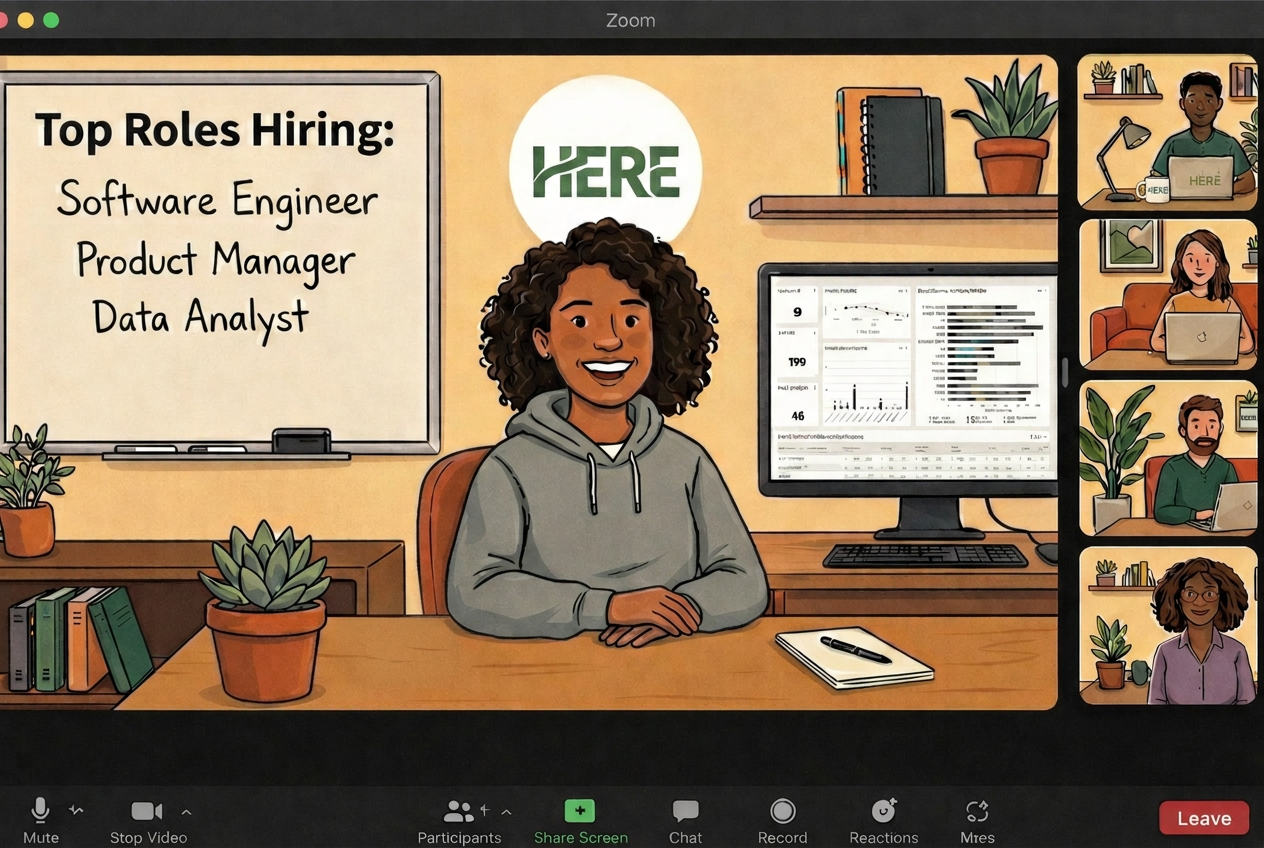
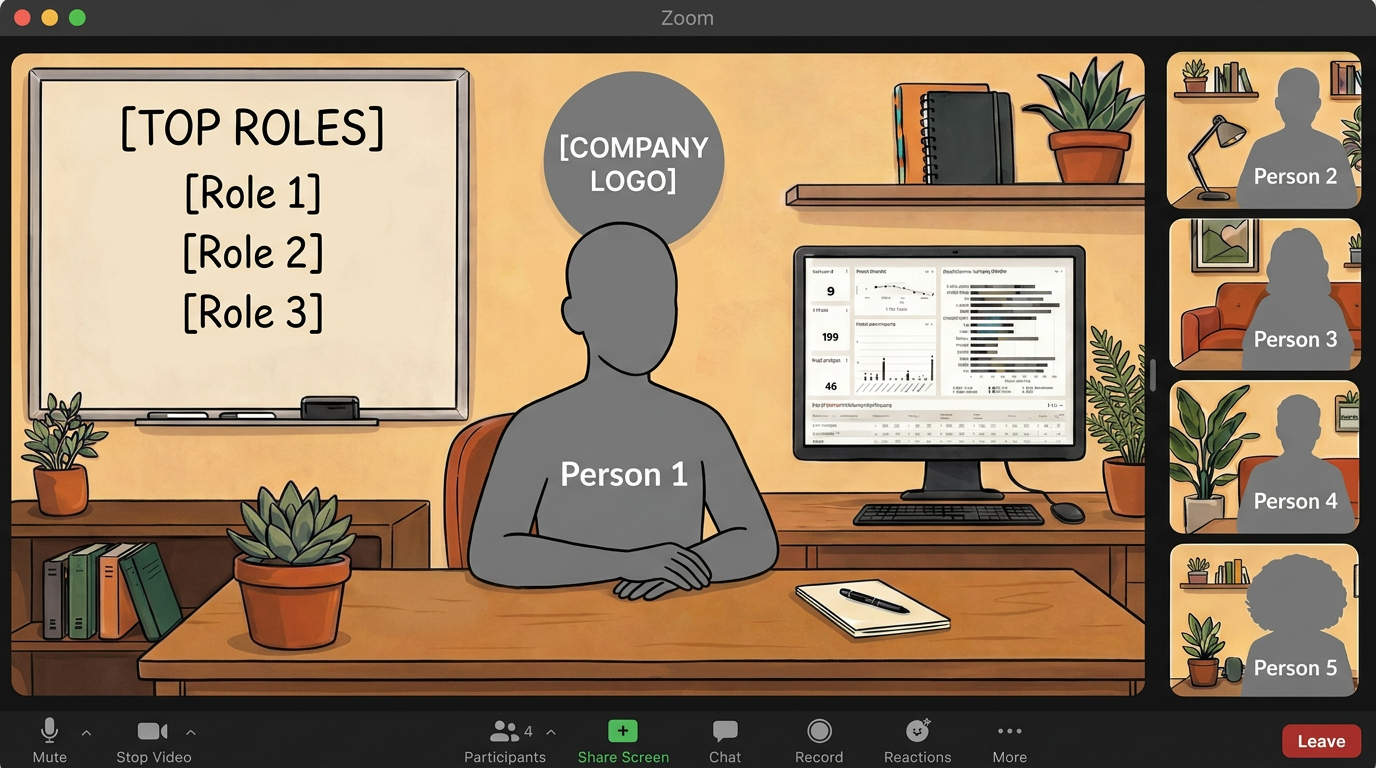
Add labeled Zoom Room reference template and rewrite Zoom Room prompts
Generated new zoom-room-reference.png with labeled placeholder slots
(Person 1-5, [COMPANY LOGO], [TOP ROLES]) matching the War Room pattern.
Old template preserved as zoom-room-reference-old.png.

Rewrote buildZoomRoomGenerationPrompt and buildZoomRoomAnalysisPrompt to
use slot-based instructions referencing the labeled template — explicit
removal of silhouettes without photos, same pattern as War Room prompts.

diff --git a/src/lib/postcard/nano-banana-generator.ts b/src/lib/postcard/nano-banana-generator.ts
@@ -500,79 +500,103 @@ function buildWarRoomAnalysisPrompt(data: PreparedData): string {
 // ─── Zoom Room Prompts ──────────────────────────────────────────────────────
 
 function buildZoomRoomGenerationPrompt(data: PreparedData, previousIssues?: string[]): string {
-  const imageLabels: string[] = ['Image 1 = reference Zoom scene (reproduce EXACTLY)'];
+  // Build image label list — maps each provided image to its labeled slot in the reference
+  const imageLabels: string[] = ['Image 1 = reference template (follow this layout EXACTLY — it has labeled placeholder slots)'];
   let imgIdx = 2;
-  if (data.logoImage) { imageLabels.push(`Image ${imgIdx} = company logo`); imgIdx++; }
-  if (data.prospectImage) { imageLabels.push(`Image ${imgIdx} = prospect face photo`); imgIdx++; }
-  for (let i = 0; i < data.teamImages.length; i++) { imageLabels.push(`Image ${imgIdx} = team member ${i + 1}`); imgIdx++; }
-  if (data.screen) imageLabels.push(`Image ${imgIdx} = dashboard for monitor screen`);
+  if (data.logoImage) { imageLabels.push(`Image ${imgIdx} = company logo → replaces [COMPANY LOGO] slot`); imgIdx++; }
+  if (data.prospectImage) { imageLabels.push(`Image ${imgIdx} = prospect face photo → replaces "Person 1" (center desk person)`); imgIdx++; }
+  for (let i = 0; i < data.teamImages.length; i++) {
+    imageLabels.push(`Image ${imgIdx} = team member ${i + 1} face photo → replaces "Person ${i + 2}" (video tile)`);
+    imgIdx++;
+  }
+  if (data.screen) imageLabels.push(`Image ${imgIdx} = dashboard screenshot → replaces monitor screen content`);
 
   const corrections = previousIssues?.length
-    ? '\nCRITICAL FIXES FROM PREVIOUS ATTEMPT:\n' + previousIssues.map((issue, i) => `  ${i + 1}. ${issue}`).join('\n') + '\n'
+    ? [
+        '',
+        'CRITICAL CORRECTIONS FROM PREVIOUS ATTEMPT (you MUST fix these):',
+        ...previousIssues.map((issue, i) => `  ${i + 1}. ${issue}`),
+        '',
+      ].join('\n')
     : '';
 
+  // Build people instructions — only slots with a provided photo get filled, all others are removed
+  const personSlots: string[] = [];
+  const removedSlots: string[] = [];
+
+  if (data.prospectImage) {
+    personSlots.push(
+      `   - "Person 1" (center desk person): Use the prospect face photo.`,
+      `     Preserve their facial features (hair, skin tone, facial structure, glasses, facial hair).`,
+      `     Match gender — adapt body build, clothing to the prospect's apparent gender.`,
+      `     Render in illustration style, not photorealistic. Keep the seated-at-desk pose.`,
+    );
+  } else {
+    removedSlots.push('"Person 1"');
+  }
+
+  for (let i = 0; i < 4; i++) {
+    if (i < data.teamImages.length) {
+      personSlots.push(
+        `   - "Person ${i + 2}" (video tile): Use team member ${i + 1} face photo.`,
+        `     Preserve their facial features, render in illustration style.`,
+      );
+    } else {
+      removedSlots.push(`"Person ${i + 2}"`);
+    }
+  }
+
   return [
-    `Recreate the reference Zoom call scene (Image 1) with specific modifications. Output a single image.`,
+    `The reference template (Image 1) shows a Zoom call scene with labeled placeholder slots.`,
+    `Reproduce this scene EXACTLY, filling in the labeled slots with the provided images. Output a single wide landscape image.`,
     ``,
     `IMAGE LABELS:`,
     ...imageLabels.map((l) => `  ${l}`),
     ``,
-    `STYLE: Warm-toned flat-color corporate illustration with clean outlines — Pixar-inspired 2D style. Every element must match this style consistently.`,
+    `STYLE: Warm-toned flat-color corporate illustration — clean outlines, vibrant colors, Pixar-inspired 2D. Every element including all people must match this style consistently. No photorealistic faces.`,
     ``,
-    `PRESERVE EXACTLY (do NOT change these):`,
-    `- Wide landscape format (3:2 ratio) — the output MUST be landscape, not square or portrait`,
-    `- Zoom UI layout: toolbar at bottom, "Leave" button, participant tiles on right — keep untouched`,
-    `- Warm orange/brown color scheme — keep untouched`,
-    `- Desk setup with monitor, plants, decor — keep untouched`,
+    `The reference template already defines the Zoom UI layout, desk, monitor, plants, toolbar, "Leave" button, etc. Keep ALL of that exactly as shown. Only fill in the labeled placeholder slots:`,
     ``,
-    `MODIFICATIONS (change ONLY these, nothing else):`,
-    ``,
-    `1. LEFT WHITEBOARD PANEL:`,
-    `   Restyle only the text; keep the panel itself untouched.`,
-    `   Header: "Top Roles Hiring:" with these roles:`,
+    `1. [TOP ROLES] whiteboard panel:`,
+    `   Replace the placeholder text with:`,
+    `   - Header: "Top Roles Hiring:" in bold`,
+    `   - Roles listed below in clean handwritten style:`,
     data.rolesText,
-    `   Write ONLY the roles listed above. Do NOT add filler text like "no additional roles found" or "more roles coming soon." If fewer than 3 roles are listed, leave the remaining panel space blank.`,
-    `   Text must be fully legible, within panel bounds, not overflowing.`,
+    `   - Write ONLY these roles. No filler text. If fewer than 3, leave remaining space blank.`,
+    `   - Text must be legible and within the panel bounds.`,
     ``,
     data.logoImage
       ? [
-          `2. LOGO: Replace ONLY the top-center "HERE" circle with the company logo provided.`,
-          `   Restyle only this one circle; keep everything else untouched.`,
+          `2. [COMPANY LOGO] circle:`,
+          `   Replace with the provided company logo. Same position, same size.`,
           `   The logo must appear EXACTLY ONCE in the entire image.`,
         ].join('\n')
-      : `2. LOGO: Keep the "HERE" circle as-is — do not change it.`,
+      : `2. [COMPANY LOGO]: No logo provided — draw a generic decorative circle.`,
     ``,
-    `3. MONITOR: Replace desk monitor content with the dashboard screenshot provided.`,
-    `   Restyle only the screen content; keep the monitor frame untouched.`,
+    `3. MONITOR SCREEN: Replace monitor content with the provided dashboard screenshot.`,
     ``,
-    data.prospectImage
+    personSlots.length > 0
       ? [
-          `4. CENTER PERSON: Preserve the face from the prospect photo.`,
-          `   Maintain their facial features (hair, skin tone, facial structure, glasses if any)`,
-          `   but render in the same flat-color illustration style as the rest of the scene.`,
-          `   Match skin tone on face, neck, hands.`,
-          `   Adapt the person's body build, clothing, and footwear to match the prospect's apparent gender from their photo.`,
-          `   If the prospect appears male, give the person a masculine build, male clothing, and flat shoes (no heels).`,
-          `   If the prospect appears female, give the person a feminine build, female clothing, and appropriate footwear.`,
-          `   Keep their seated-at-desk pose untouched.`,
-        ].join('\n')
-      : `4. CENTER PERSON: Keep as-is — do not change their appearance.`,
-    ``,
-    data.teamImages.length > 0
-      ? [
-          `5. VIDEO TILES: Preserve the faces from ${data.teamImages.length} team member photo(s).`,
-          `   Maintain each person's facial features but render in the same illustration style.`,
-          `   Unmodified tiles MUST stay exactly as-is — preserve their original diverse appearances.`,
-        ].join('\n')
-      : `5. VIDEO TILES: Keep all as-is — do not change any participant.`,
+          `4. PEOPLE — The reference has labeled silhouettes (Person 1 = center desk, Person 2–5 = video tiles). Fill in ONLY the ones with provided photos:`,
+          ...personSlots,
+          removedSlots.length > 0
+            ? `   - REMOVE these (no photo provided): ${removedSlots.join(', ')}. Delete them from the scene entirely — leave the video tile empty/blank or remove the center person, do NOT draw any character there.`
+            : '',
+          `   - ALL people rendered in the same illustration style. Use photos ONLY for facial features.`,
+        ].filter(Boolean).join('\n')
+      : [
+          `4. PEOPLE — The reference has labeled silhouettes.`,
+          `   REMOVE ALL of them (${removedSlots.join(', ')}) — no photos were provided.`,
+          `   Leave video tiles empty/blank and remove center person. No people in the final image.`,
+        ].join('\n'),
     corrections,
     ``,
     `FINAL CHECKS:`,
     `- Logo appears EXACTLY ONCE`,
-    `- Unchanged people preserve their original diversity and appearance`,
-    `- Consistent illustration style everywhere — clean lines, vibrant colors, no photorealistic elements`,
     `- All text legible and within bounds`,
-    `- Wide landscape output (3:2 ratio), not square or portrait`,
+    `- Wide landscape output (3:2), not square or portrait`,
+    `- No gray silhouettes remain — only people with provided photos appear, rest are removed`,
+    `- Consistent illustration style — no photorealistic elements`,
     data.customPrompt ? `\nADDITIONAL USER INSTRUCTIONS (follow these carefully):\n${data.customPrompt}` : '',
   ].filter(Boolean).join('\n');
 }
@@ -581,66 +605,65 @@ function buildZoomRoomAnalysisPrompt(data: PreparedData): string {
   const expectedRoles = data.rolesText.replace(/  \u2022 /g, '').split('\n').join(', ');
 
   const labels: string[] = [
-    'Image 1 = original Zoom reference template (the LAYOUT to preserve)',
-    'Image 2 = generated output (being reviewed)',
+    'Image 1 = reference template (has labeled placeholder slots — the LAYOUT to preserve)',
+    'Image 2 = generated output (the image being reviewed)',
   ];
   let idx = 3;
-  if (data.logoImage) { labels.push(`Image ${idx} = company logo (should replace top-center "HERE" circle)`); idx++; }
-  if (data.prospectImage) { labels.push(`Image ${idx} = prospect face photo (center person should look like THIS)`); idx++; }
-  for (let i = 0; i < data.teamImages.length; i++) { labels.push(`Image ${idx} = team member ${i + 1} face photo`); idx++; }
+  if (data.logoImage) { labels.push(`Image ${idx} = company logo (should replace [COMPANY LOGO] slot, appear ONCE)`); idx++; }
+  if (data.prospectImage) { labels.push(`Image ${idx} = prospect face photo (should replace "Person 1" — the center desk person)`); idx++; }
+  for (let i = 0; i < data.teamImages.length; i++) {
+    labels.push(`Image ${idx} = team member ${i + 1} face photo (should replace "Person ${i + 2}")`);
+    idx++;
+  }
 
   return [
-    `You are reviewing a generated Zoom Room postcard. We modified the reference template (Image 1). Verify the output (Image 2).`,
+    `You are reviewing a generated Zoom Room postcard. The reference template (Image 1) has labeled placeholder slots. We asked the AI to fill them in. Verify it was done correctly.`,
     ``,
     `IMAGES PROVIDED:`,
     ...labels.map((l) => `  ${l}`),
     ``,
-    `WHAT WE ASKED: Preserve Image 1's layout, changing ONLY these:`,
-    `- Whiteboard text -> "Top Roles Hiring:" + roles: ${expectedRoles}`,
-    data.logoImage ? `- Top-center "HERE" circle -> company logo (provided as separate image)` : ``,
-    `- Monitor content -> dashboard`,
-    data.prospectImage ? `- Center person's face -> prospect photo features (intentional — should NOT match Image 1's center person)` : ``,
-    data.teamImages.length > 0 ? `- ${data.teamImages.length} video tile face(s) -> team photo features. Other tiles UNCHANGED.` : ``,
+    `WHAT WE ASKED:`,
+    `- Fill [TOP ROLES] whiteboard panel with: "Top Roles Hiring:" + ${expectedRoles}`,
+    data.logoImage ? `- Fill [COMPANY LOGO] with the provided company logo (once only)` : `- No logo provided — should be a generic decorative circle`,
+    `- Fill monitor screen with the dashboard screenshot`,
+    data.prospectImage ? `- Replace "Person 1" (center desk) with the prospect's facial features — intentional, should NOT match the gray silhouette` : ``,
+    data.teamImages.length > 0 ? `- Replace "Person 2"–"Person ${data.teamImages.length + 1}" with team member faces` : ``,
+    `- All remaining silhouettes (without photos) should be REMOVED — empty video tiles, no people drawn there`,
     ``,
-    `TARGET STYLE: Warm-toned flat-color corporate illustration with clean outlines — Pixar-inspired 2D style.`,
+    `TARGET STYLE: Warm-toned flat-color corporate illustration — clean outlines, vibrant colors, Pixar-inspired 2D. No photorealistic faces.`,
     ``,
     `EVALUATE Image 2:`,
-    `1. ZOOM UI: Toolbar, "Leave" button, tiles on right preserved?`,
-    `2. WHITEBOARD: "Top Roles Hiring:" with ${expectedRoles}? Legible, within bounds? Check SPELLING carefully — each role name must be spelled correctly. Compare letter by letter against: ${expectedRoles}. If any word is misspelled, FAIL this check. Also FAIL if any filler text appears (e.g. "no additional roles found", "more roles coming soon", "no other roles", or similar placeholder text). The whiteboard should show ONLY the listed roles and nothing else.`,
-    data.logoImage ? `3. LOGO: Exactly ONE company logo matching the provided logo in top-center?` : `3. LOGO: N/A`,
-    `4. MONITOR: Dashboard content on desk screen?`,
+    ``,
+    `1. LAYOUT: Does Image 2 preserve the Zoom UI layout from Image 1? (toolbar, "Leave" button, tiles on right, desk setup)`,
+    `2. WHITEBOARD: Shows "Top Roles Hiring:" with exactly: ${expectedRoles}? Check SPELLING letter by letter. FAIL if misspelled or if filler text appears (e.g. "more roles coming soon"). Only the listed roles should appear.`,
+    data.logoImage
+      ? `3. LOGO: Company logo appears EXACTLY ONCE at the [COMPANY LOGO] position? Not duplicated elsewhere?`
+      : `3. LOGO: N/A`,
+    `4. MONITOR: Shows dashboard content on desk screen?`,
     data.prospectImage
       ? [
-          `5. CENTER PERSON — CRITICAL CHECK:`,
-          `   A prospect photo was provided. The center person's face MUST be REPLACED to match the prospect.`,
-          `   Compare the center person in Image 2 against:`,
-          `   - The PROSPECT PHOTO (the face they SHOULD have) — look at hair color, hair style, skin tone, gender, facial hair, glasses`,
-          `   - Image 1's original center person (the face they should NO LONGER have)`,
-          `   FAIL this check if the center person still looks like Image 1's original person.`,
-          `   FAIL this check if hair color, skin tone, or gender don't match the prospect photo.`,
-          `   BODY & CLOTHING CHECK: The person's body build, clothing, and footwear must match the prospect's apparent gender.`,
-          `   FAIL if a male prospect has a feminine body, heels, a skirt, or other female clothing.`,
-          `   FAIL if a female prospect has an overly masculine body or clothing that clearly doesn't match.`,
-          `   This is the MOST IMPORTANT check — the whole point is to personalize the postcard for this prospect.`,
+          `5. PERSON 1 (CENTER DESK) — CRITICAL CHECK:`,
+          `   Must match the prospect photo: hair color/style, skin tone, gender, glasses, facial hair.`,
+          `   Body build and clothing must match prospect's apparent gender.`,
+          `   FAIL if Person 1 still looks like a gray silhouette or doesn't match the prospect photo.`,
+          `   This is the MOST IMPORTANT check.`,
         ].join('\n')
-      : `5. CENTER: N/A`,
-    data.teamImages.length > 0 ? `6. VIDEO TILES: ${data.teamImages.length} tile(s) replaced with team photo features? Others unchanged and diverse? All faces in illustration style?` : `6. TILES: N/A`,
-    `7. STYLE: Consistent flat-color illustration style? ALL faces (including replaced) must have clean outlines, flat colors — no photorealistic faces on illustrated bodies. STRICT.`,
-    `8. FORMAT: Wide landscape image (3:2 ratio)? FAIL if square or portrait.`,
+      : `5. PERSON 1: N/A (no prospect photo provided)`,
+    data.teamImages.length > 0
+      ? `6. PERSONS 2–${data.teamImages.length + 1} (VIDEO TILES): Do they match the ${data.teamImages.length} team member photo(s)? All in illustration style?`
+      : `6. TEAM TILES: N/A`,
+    `7. SILHOUETTES: Are all unprovided person slots REMOVED (empty video tiles)? FAIL if any gray silhouettes remain.`,
+    `8. STYLE: Consistent illustration style on ALL faces — flat colors, clean outlines, no photorealistic faces?`,
+    `9. FORMAT: Wide landscape (3:2)?`,
     ``,
-    `For each check: PASS or FAIL with brief reason.`,
-    `Then:`,
+    `For each: PASS or FAIL with brief reason.`,
     `OVERALL: PASS or FAIL`,
     `ISSUES: Numbered actionable fixes (empty if PASS).`,
     ``,
-    `CRITICAL RULE FOR ISSUES:`,
-    `The generator cannot see numbered references. Use VISUAL DESCRIPTIONS:`,
-    `BAD: "Replace center person with Image 4"`,
-    `GOOD: "The center person should be a [gender, skin tone, hair color/style, glasses, distinguishing features]. Currently it looks like [problem]."`,
-    `For style: "The center person's face is photorealistic with smooth gradients — redraw with flat colors and clean outlines."`,
-    `For spelling: "The whiteboard says '[wrong]' but should say '[correct]'."`,
-    ``,
-    `The center person SHOULD differ from Image 1 — that's intentional.`,
+    `RULE FOR ISSUES: The generator cannot see image numbers. Use VISUAL DESCRIPTIONS only:`,
+    `BAD: "Make Person 1 look like Image 4"`,
+    `GOOD: "Person 1 (center desk) should be a [gender] with [skin tone], [hair], [glasses]. Currently looks like [problem]."`,
+    `For spelling: "Whiteboard says '[wrong]' but should say '[correct]'."`,
   ].filter(Boolean).join('\n');
 }
 
